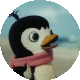
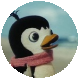
story up

diff --git a/performance/resize_and_cut_image.py b/performance/resize_and_cut_image.py
@@ -36,7 +36,8 @@ def resize_cut_and_alpha_image(file_name, new_height, new_width):
     #cut circle here
     b_channel, g_channel, r_channel = cv2.split(resized)
     alpha_channel = np.zeros((new_width, new_height,1), dtype='uint8')      #add alpha channel; in ones multiply e.g. *100
-    cv2.ellipse(alpha_channel, (int(new_width/2), int(new_height/2)), (int(new_width/2), int(new_height/2)), 0, 0 , 360, (255), -1)     #draw circle
+    CenterAndAxes = (int(new_width/2)-2, int(new_height/2)-2)
+    cv2.ellipse(alpha_channel, (int(new_width/2)-1, int(new_height/2)-1), (int(new_width/2)-2, int(new_height/2)-2), 0, 0 , 360, (255), -1)     #draw circle
     img_BGRA = cv2.merge((b_channel, g_channel, r_channel, alpha_channel))   
     maskedImg = cv2.bitwise_and(img_BGRA, img_BGRA, mask=alpha_channel)
     #show_img(alpha_channel, "alpha image")

diff --git a/performance/story.py b/performance/story.py
@@ -95,7 +95,7 @@ def create_random(space, true_center, names=[]):
     humans = []
     for key, name in enumerate(names):
         center=(random.randrange(150, 1266), random.randrange(200, 668))
-        center = true_center #(660, 400)
+        #center = true_center #(660, 400)
         face_img = random.choice(["fizzix.png", "forch.png", "berk.png", "Fortyk.png", "fojteqkloc.png", ""])
         human = anime.human(name, "male", face_img)
         human.setCenter(space, center)
@@ -130,8 +130,8 @@ def main():
     #the_one.say_something(spacex, "some title")
     the_one.move(spacex, 'up', 1)
     
-    while True:
-    #for x in range(1):
+    #while True:
+    for x in range(0):
         for the_one in humans_all:
             the_one.jump(spacex, 100, 40, 5)
             the_one.jump(spacex, 100, 80, 5)
